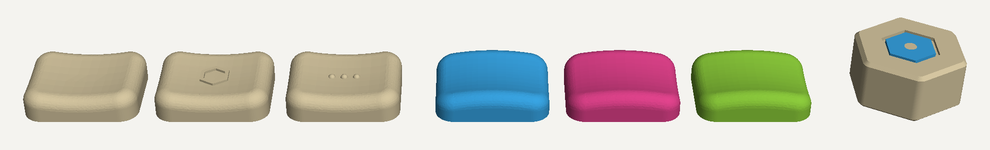
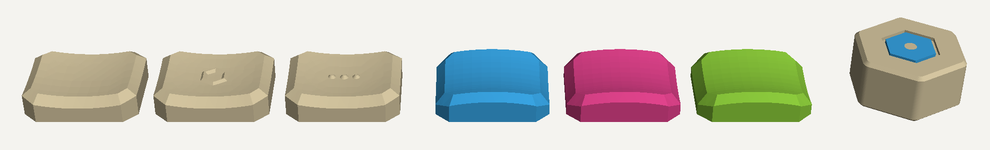
Print keycaps with 45° chamfers and in groups for printing by object
Print-friendly edges (default): the footprint corners and the top edge
get 45° chamfers instead of radii, the homing marks 45° flanks. Apart
from the stem legs, no face of the standing cap overhangs by more than
45°. The chamfers stay sharp: rounding them left degenerate faces in
OpenCascade that meshed into slivers with open edges.

keycap-files.mjs now writes the set as seven tight groups (2 home rows
of 4, 4 finger groups of 6, the 6 thumbs), each two rows back to back
with overlapping frame bars, as STLs and as one 3MF with seven objects.
Plates are built from one mesh per cap, written as binary STL.

diff --git a/case/fluidcad/keycap.part.js b/case/fluidcad/keycap.part.js
@@ -1,4 +1,4 @@
-import { arc, axis, color, extrude, fillet, fuse, line, param, part, plane, revolve, select, sketch, sphere } from 'fluidcad/core';
+import { arc, axis, chamfer, circle, color, extrude, fillet, fuse, line, param, part, plane, revolve, select, sketch, sphere } from 'fluidcad/core';
 import { edge } from 'fluidcad/filters';
 import { closed } from './outline.js';
 
@@ -21,6 +21,17 @@ import { closed } from './outline.js';
 // The cap prints standing on its front edge (-Y). The stem legs then overhang sideways; an
 // integrated support carries them: a thin wall under the leg tips that touches them only on
 // a narrow strip, tied to the cap by a flat frame of two layers on the bed.
+//
+// Print-friendly edges (default): apart from the stem legs, no face of the standing cap
+// overhangs by more than 45°. Round edges start tangent to the bed at the front edge and
+// overhang almost horizontally there, so the corners of the footprint and the top edge get
+// 45° chamfers instead; the homing marks get 45° flanks (cones instead of domes, a hexagon
+// with sloped walls). Off, the cap has the round edges of the original caps.
+//
+// The chamfers stay sharp (their edges are 135°, printing softens them a little). Rounding
+// them failed in OpenCascade: a fillet over the chamfer edges, and even a chamfer along
+// rounded footprint corners, left degenerate B-spline patches that meshed into tens of
+// thousands of slivers with open edges, or a top surface that was not fully cut.
 
 // Depth of the pocket on the underside; its walls slope at 45°, so they print on edge.
 const RIM = 1;
@@ -37,8 +48,10 @@ const SUPPORT = {
 };
 // Homing marks on the top surface. Dots: three domes. Hexagon: a raised outline, like the
 // eyes on the middle cover.
-const DOTS = { at: [-2, 0, 2], radius: 0.6, sink: 0.1 };
-const HEX = { radius: 2.6, line: 0.6, height: 0.45 };
+const DOTS = { at: [-2, 0, 2], radius: 0.6, sink: 0.1, cone: { base: 0.7, height: 0.45 } };
+// Hexagon: corner radius of the outer edge and line width at the top surface. With 45° flanks
+// the line is `slopedLine` wide at the surface and narrows to a ridge at `height`.
+const HEX = { radius: 2.6, line: 0.6, height: 0.45, slopedLine: 1.1, slopedHeight: 0.45 };
 // Half length of the cutting body for the top surface, beyond the widest cap.
 const REACH = 12;
 
@@ -56,6 +69,14 @@ function chamferedRect(cx, cy, w, h, c) {
   const p = [[x0 + c, y0], [x1 - c, y0], [x1, y0 + c], [x1, y1 - c], [x1 - c, y1], [x0 + c, y1], [x0, y1 - c], [x0, y0 + c]];
   return closed(p);
 }
+
+/** Rectangle with 45° chamfered corners (legs c), centred at the origin, corners counter-clockwise. */
+const octagon = (w, h, c) => {
+  const [x, y] = [w / 2, h / 2];
+  /** @type {[number, number][]} */
+  const p = [[-x + c, -y], [x - c, -y], [x, -y + c], [x, y - c], [x - c, y], [-x + c, y], [-x, y - c], [-x, -y + c]];
+  return p;
+};
 
 /** Rounded rectangle centred at the origin of the sketch. */
 function roundedRect(w, h, r) {
@@ -80,8 +101,17 @@ export const keycap = part('Molekula · Keycap', () => {
   });
   const width = param('Width (mm)', 18.3, 'number', { min: 15, max: 18.8, step: 0.1, group: 'Body' });
   const depth = param('Depth (mm)', 15.3, 'number', { min: 13, max: 15.8, step: 0.1, group: 'Body' });
-  const corner = param('Corner radius (mm)', 3, 'number', { min: 0.5, max: 6, step: 0.1, group: 'Body' });
-  const edgeRadius = param('Top edge radius (mm)', 2, 'number', { min: 0.3, max: 2.5, step: 0.1, group: 'Body' });
+  const printable = param('Print-friendly edges (45°)', true, 'checkbox', {
+    group: 'Body', description: 'Chamfers instead of round edges, so nothing but the stem overhangs by more than 45° when the cap prints standing.',
+  });
+  const corner = param('Corner radius (mm)', 3, 'number', { min: 0.5, max: 6, step: 0.1, group: 'Body', description: 'Round edges only.' });
+  const edgeRadius = param('Top edge radius (mm)', 2, 'number', { min: 0.3, max: 2.5, step: 0.1, group: 'Body', description: 'Round edges only.' });
+  const cornerChamfer = param('Corner chamfer (mm)', 2.2, 'number', {
+    min: 0.5, max: 5, step: 0.1, group: 'Body', description: 'Print-friendly edges: 45° chamfer of the footprint corners, measured along each side.',
+  });
+  const edgeChamfer = param('Top edge chamfer (mm)', 1.5, 'number', {
+    min: 0.3, max: 2.5, step: 0.1, group: 'Body', description: 'Print-friendly edges: 45° chamfer of the top edge.',
+  });
   const height = param('Height at the centre (mm)', 2.5, 'number', {
     min: 1.5, max: 8, step: 0.1, group: 'Body', description: 'Top surface above the pocket floor; the rim adds 1 mm.',
   });
@@ -122,7 +152,8 @@ export const keycap = part('Molekula · Keycap', () => {
 
   // Blank: the footprint from the rim up to above the top surface.
   sketch(plane('xy', { offset: -RIM }), () => {
-    roundedRect(width, depth, corner);
+    if (printable) closed(octagon(width, depth, cornerChamfer));
+    else roundedRect(width, depth, corner);
   }).name('Footprint');
   const cap = extrude(top + RIM).new().name('Keycap');
 
@@ -152,11 +183,22 @@ export const keycap = part('Molekula · Keycap', () => {
     line([-REACH, axisZ], [-REACH, z]);
   }).name('Top surface · profile');
   revolve(axis('x', { offsetY: axisY, offsetZ: axisZ }), cutter).remove().scope(cap).name('Top surface');
-  fillet(edgeRadius, select(edge().above('xy', 0.2))).name('Top edge');
+  if (printable) {
+    chamfer(edgeChamfer, select(edge().above('xy', 0.2))).name('Top edge');
+  } else {
+    fillet(edgeRadius, select(edge().above('xy', 0.2))).name('Top edge');
+  }
 
-  // Pocket on the underside with 45° walls.
+  // Pocket on the underside with 45° walls. With chamfered corners its outline is the
+  // footprint inset by the rim, so the rim keeps its width around the corners.
+  const inset = RIM_WIDTH + RIM;
   sketch(plane('xy', { offset: 0 }), () => {
-    roundedRect(width - 2 * (RIM_WIDTH + RIM), depth - 2 * (RIM_WIDTH + RIM), Math.max(0.3, corner - RIM_WIDTH - RIM));
+    if (printable) {
+      const c = Math.max(0.3, cornerChamfer - inset * (2 - Math.SQRT2));
+      closed(octagon(width - 2 * inset, depth - 2 * inset, c));
+    } else {
+      roundedRect(width - 2 * inset, depth - 2 * inset, Math.max(0.3, corner - inset));
+    }
   }).name('Pocket · floor');
   extrude(RIM).draft(45).remove().scope(cap).name('Pocket');
 
@@ -169,8 +211,28 @@ export const keycap = part('Molekula · Keycap', () => {
   }
 
   // Homing mark.
-  if (mark === 'dots') {
+  if (mark === 'dots' && printable) {
+    // Cones with 45° flanks, from below the surface up to their small flat tip.
+    const { base, height: up } = DOTS.cone;
+    for (const x of DOTS.at) {
+      sketch(plane('xy', { offset: h - 0.3 }), () => circle([x, 0], 2 * (base + 0.3))).name(`Homing dot ${x} · sketch`);
+      extrude(0.3 + up).draft(-45).add().scope(cap).name(`Homing dot ${x}`);
+    }
+  } else if (mark === 'dots') {
     for (const x of DOTS.at) fuse(cap, sphere(DOTS.radius).translate(x, 0, h - DOTS.sink));
+  } else if (mark === 'hexagon' && printable) {
+    // A ridge with 45° flanks: a hexagonal frustum narrowing upwards, minus one widening
+    // upwards. Sizes are apothems (centre to side); `below` reaches under the dished surface.
+    const below = 0.6;
+    const up = HEX.slopedHeight;
+    const outer = HEX.radius * Math.cos(Math.PI / 6);
+    const inner = outer - HEX.slopedLine;
+    const r = a => a / Math.cos(Math.PI / 6);
+    sketch(plane('xy', { offset: h - below }), () => closed(hexagon(r(outer + below)))).name('Homing hexagon · sketch');
+    const ring = extrude(below + up).draft(-45).new().name('Homing hexagon');
+    sketch(plane('xy', { offset: h + up }), () => closed(hexagon(r(inner + up)))).name('Homing hexagon · inside · sketch');
+    extrude(below + up + 0.01).draft(-45).remove().scope(ring).name('Homing hexagon · inside');
+    fuse(cap, ring);
   } else if (mark === 'hexagon') {
     sketch(plane('xy', { offset: h - 0.8 }), () => {
       closed(hexagon(HEX.radius));

diff --git a/keycaps/README.md b/keycaps/README.md
@@ -12,7 +12,11 @@ All caps print standing on their front edge. An integrated support carries the s
 - **Thumb (saddle):** concave along the column, so the thumb lies in a shallow trough that runs along the thumb row (0.8 mm, **Saddle trough**). Convex across, so the edges roll away under the thumb instead of digging into it (0.5 mm, **Saddle roll-off**). The thumb caps are 0.5 mm higher at the centre, so the rolled-off edges stay thick enough.
 - **Homing mark:** none, three dots as on the old home cap, or a raised hexagon outline in the style of the eyes on the middle cover.
 
-Both surfaces are built the same way. An arc across the key is revolved about an axis parallel to X that lies above the cap, and the revolved body is cut from the blank. The arc decides the shape across the key (concave for the dish, convex for the saddle), and the height of the axis decides the shape along it. The top edge is then rounded with 2 mm.
+Both surfaces are built the same way. An arc across the key is revolved about an axis parallel to X that lies above the cap, and the revolved body is cut from the blank. The arc decides the shape across the key (concave for the dish, convex for the saddle), and the height of the axis decides the shape along it.
+
+**Print-friendly edges (45°)**, on by default: apart from the stem legs, no face of the standing cap overhangs by more than 45°. Round edges start tangent to the bed at the front edge and overhang almost horizontally there. So the four corners of the footprint and the whole top edge get 45° chamfers instead (**Corner chamfer** 2.2 mm, **Top edge chamfer** 1.5 mm). The homing marks get 45° flanks: the dots become small cones, and the hexagon becomes a ridge with sloped sides. Checked on the exported meshes, the only faces that point down more steeply are the undersides of the stem legs, which the integrated support carries.
+
+The chamfers stay sharp. Their edges are 135° and printing softens them a little. Rounding them failed in OpenCascade: both a fillet over the chamfer edges and a chamfer along rounded footprint corners left degenerate faces, which meshed into tens of thousands of slivers with open edges, or left the top surface not fully cut. With the option off, the cap gets the round edges of the original caps (corner radius 3 mm, top edge 2 mm).
 
 Colours: the case is beige, so all finger caps are beige. The index finger home caps carry the mark in the same colour. The three thumb caps per half take the eye colours blue, pink and green. Each cap is one colour, since a cap printed on edge would need a filament change in almost every layer for a coloured detail on its top.
 
@@ -37,13 +41,25 @@ node case/fluidcad/tools/keycap-files.mjs          # home caps with the hexagon
 node case/fluidcad/tools/keycap-files.mjs dots     # home caps with three dots
 ```
 
+For printing by object (OrcaSlicer: print sequence "by object", which gives cleaner caps than printing all at once), the caps come in tight groups. Each group stands in two rows back to back, with 1.5 mm between neighbours, and the cross bars of the support frames overlap, so a group is one stable object. A full set is seven groups:
+
+| Group | Caps | Count | Contents |
+| --- | --- | --- | --- |
+| Home row | 4 | 2 | three finger caps and the index finger home cap |
+| Finger | 6 | 4 | finger caps for the keys around the home rows |
+| Thumbs | 6 | 1 | the thumb caps |
+
+![The seven print groups on one plate, the thumb group in an accent colour](../images/keycaps-print-groups.png)
+
+All seven in beige make a complete set. An accent colour is a matter of printing one group in another filament, for example the thumbs or the home rows, even on a printer with a single colour. For caps in many colours, print the single caps.
+
 The script writes into `case/fluidcad/print/keycaps/`:
 
 | File | Contents |
 | --- | --- |
-| `keycaps-beige.stl` | The 30 finger caps and the 2 home caps of a full set, on one plate |
-| `keycaps-thumbs.stl` | The 6 thumb caps in three rows of two. Split it into objects in the slicer and give each row its colour: blue, pink, green from front to back. |
-| `keycap-finger`, `keycap-home-<mark>`, `keycap-thumb` | One cap each, as STEP and STL |
+| `keycaps-set.3mf` | The seven groups as separate objects on one plate (256 × 256 mm): open it, set the print sequence to "by object", and assign filaments per object |
+| `keycap-group-home-row.stl`, `keycap-group-finger.stl`, `keycap-group-thumbs.stl` | One group each |
+| `keycap-finger`, `keycap-home-<mark>`, `keycap-thumb` | Single caps, as STEP and STL |
 | `encoder-knob.stl`, `encoder-knob-eye.stl` | Knob and eye inlay, lined up. Load both as one object with two parts. |
 
 The settings of the original caps should work for the new ones too: 0.12 mm layers, 4 walls, supports only where painted.
